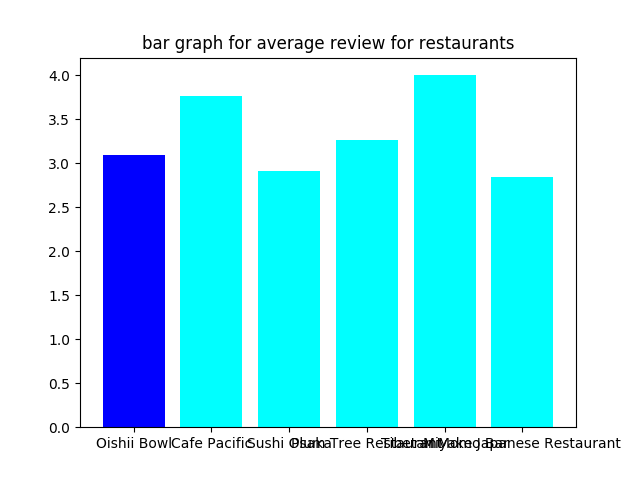
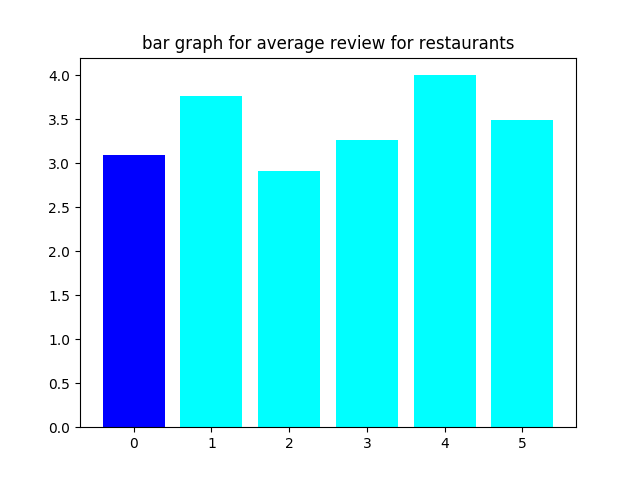
competitor graph legend added

Changed region(s): [[0.1562, 0.9062, 0.9688, 0.9375], [0.75, 0.25, 0.875, 0.375]]

diff --git a/dbms_visualization.py b/dbms_visualization.py
@@ -4,6 +4,7 @@ import matplotlib.pyplot as plt
 import collections
 from scipy.interpolate import spline
 import requests
+from matplotlib.lines import Line2D
 
 
 # get rating trends for all restaurants in id_restaurant_dict
@@ -164,9 +165,22 @@ def visualize_yelp_competitor_score(res_id):
     colors = ['cyan'] * len(competitors_rating_dict.keys())
     colors[0] = 'blue'
     plt.title("bar graph for average review for restaurants")
-    plt.bar(range(len(competitors_rating_dict)), values, color=colors, tick_label=names)
+    plt.bar(range(len(competitors_rating_dict)), values, color=colors)
     plt.savefig('competitor bar graph.png')
+
+    # add legends
+    custom_lines = [Line2D([0], [0], color='blue', lw=4)]
+    for i in range(len(competitors_rating_dict.keys()) - 1):
+        custom_lines.append(Line2D([0], [0], color='cyan', lw=4))
+    competitor_names = []
+    i = 0
+    for res_id in competitors_rating_dict.keys():
+        competitor_names.append(str(i) + ': ' + competitors[res_id])
+        i += 1
+
+    plt.legend(custom_lines, competitor_names, fontsize='small', loc='upper center', bbox_to_anchor=(0.5, -0.03), ncol=3)
     plt.show()
+
 
 # visualize()
 # visualize_selected()
